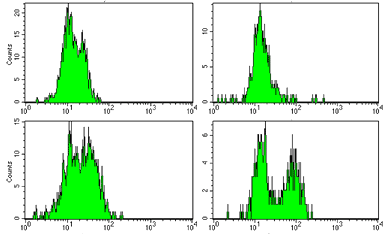
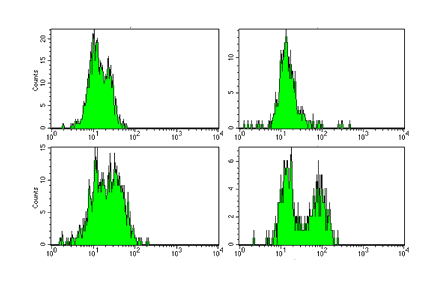
Whole-Cell Analysis: a question at the end of each section
The deck ended with a divider and one slide holding four questions, all
their answers in a single note.  Each question now closes the section
whose tools answer it, verbatim, carrying its own line of that note:
the temperature-sensitive GFP variant after the fluorescent reporter
assays, the MRSA killers and the clinical-utility follow-up after the
microbiological assays, and the 30-minute GFP pulse after experimental
design.  Only one word changed: "for the system in 2" became "for that
system", since the numbering is gone.

Section 05 is deleted with its cartoon.  It was a divider for a section
of one slide, and the cartoon was an opaque white box on the amber
ground.

That turned out to be true of every divider image, which is the trap
AUTHORING.txt records for a source image on a coloured ground.  The
three that remain now carry an even white border, so they read as
mounted plates rather than tight crops.

Biochemical Assays still has no closing question; none of the source's
four is biochemical.

Changed region(s): [[0.0, 0.0, 0.9974, 0.9872], [0.0, 0.688, 0.0312, 0.7778]]

diff --git a/docs/lectures/140L/08-whole-cell/04-experimental.html b/docs/lectures/140L/08-whole-cell/04-experimental.html
@@ -24,6 +24,7 @@
 .slide .chart text{fill:var(--ink)}
 .slide .chart .tick{font-size:22px}
 .slide .chart .atitle{font-size:24px}
+.slide.ask p.q{font-size:36px;font-weight:700;line-height:1.35;margin:30px 0 0;max-width:44ch}
 </style>
 </head>
 <body>
@@ -283,6 +284,16 @@
   <p class="src">iGEM:  Peking, 2007</p>
   <template class="notes">Another measured property of a strain is population heterogeneity.  Here, one cell in the population does something different than other cells. Sometimes this is an intentional property.  For example, this variant of the toggle switch from the Peking iGEM team in 2007 is designed to cause population heterogeneity.  Thus, they need to look at individual cells in the population and measure two different channels of fluorescence. However, often population heterogeneity is an unwanted and challenging-to-measure property of a strain.  For example, you might have a biosynthetic pathway in a cell in which only 10% of the population is producing the genes needed for biosynthesis.  With bulk measurements, it is impossible to know that such heterogeneity exists, but it is challenging to decipher this quality of your design directly. If the heterogeneity is due to genetic mutation, this can be pulled out from single-cell sequencing. There are efforts to develop other single-cell assays in the works, but as of 2014, sequencing and fluorescence are the only off-the-shelf way to ask questions about population heterogeneity.</template>
   <template class="desc">Population heterogeneity, or phase variation. A toggle-switch circuit from the Peking 2007 iGEM team, built from cI and cI434 with an EGFP reporter, above two fluorescence images of colonies: a field of mostly green colonies with a few red, and a close-up of one colony red at its centre and green around it.</template>
+</article>
+
+<!-- ------------------------------------------- 40c (moved here, 18 Oct 2026) -->
+<!-- Source 40's fourth question: a pulse followed over time is the
+     Dynamics idea this section introduces.  Question and answer VERBATIM. -->
+<article class="slide ask" data-bg="section">
+  <h1>Question to ponder</h1>
+  <p class="q">I have engineered a genetic circuit that produces a pulse of GFP activity after IPTG induction. It lasts for 30 minutes and then shuts off.  How can I quantify this phenotype?</p>
+  <template class="notes">This requires following cells over time, so you will need a fluorescence microscope.</template>
+  <template class="desc">Question to ponder, on the amber ground: I have engineered a genetic circuit that produces a pulse of GFP activity after IPTG induction, lasting 30 minutes and then shutting off. How can I quantify this phenotype?</template>
 </article>
 
 <script src="../../deck.js" defer></script>

diff --git a/docs/lectures/140L/08-whole-cell/01-fluorescent.html b/docs/lectures/140L/08-whole-cell/01-fluorescent.html
@@ -41,6 +41,7 @@
 .slide table.od{margin:16px auto 0;border-collapse:collapse;width:1200px}
 .slide table.od td{font-size:30px;padding:2px 0}
 .slide table.od td+td{text-align:center;width:33%}
+.slide.ask p.q{font-size:36px;font-weight:700;line-height:1.35;margin:30px 0 0;max-width:44ch}
 </style>
 </head>
 <body>
@@ -287,6 +288,20 @@ Scattering is a related phenomenon in which light bounces off a particle at a di
   </table>
   <template class="notes">Consider I have these two samples containing the same bacteria.  The only difference is that the cells on the left are twice as concentrated as those on the right.  Fluorescence measurements are linearly related to concentration, thus the sample on the left will give twice the signal as those on the right.  If you take those numbers at face value, you would incorrectly conclude that the cells on the left are more fluorescent than those on the right.</template>
   <template class="desc">Two fields of the same fluorescent bacteria, the left twice as concentrated as the right. Beneath them, fluorescence reads 0.86 on the left and 0.42 on the right.</template>
+</article>
+
+<!-- ------------------------------------------- 40a (moved here, 18 Oct 2026) -->
+<!-- Source slide 40 asked four questions on one slide at the very end of
+     the deck, with all four answers in one note.  JCA: go through them
+     individually, and reinforce at the end of each section instead.  So
+     each question now closes the section whose tools answer it, in the
+     pattern section 00 already used.  Question and answer are VERBATIM;
+     the answer is the matching line of source 40's note. -->
+<article class="slide ask" data-bg="section">
+  <h1>Question to ponder</h1>
+  <p class="q">I am trying to engineer a temperature-sensitive GFP variant.  Experimentally, how do I quantify this effect in live cells?</p>
+  <template class="notes">Put the GFP variants under a constitutive promoter on a plasmid, transform the cells, grow them at different temperatures, measure the fluorescence using a fluorimeter (Tecan), cytometry, or fluorescence microscopy</template>
+  <template class="desc">Question to ponder, on the amber ground: I am trying to engineer a temperature-sensitive GFP variant. Experimentally, how do I quantify this effect in live cells?</template>
 </article>
 
 <script src="../../deck.js" defer></script>

diff --git a/docs/lectures/140L/08-whole-cell/03-microbiological.html b/docs/lectures/140L/08-whole-cell/03-microbiological.html
@@ -18,6 +18,7 @@
 /* frames of one drawing stacked in a single cell, so a click swaps them */
 .slide .frames{display:grid;min-height:0}
 .slide .frames > img{grid-area:1 / 1}
+.slide.ask p.q{font-size:36px;font-weight:700;line-height:1.35;margin:30px 0 0;max-width:44ch}
 </style>
 </head>
 <body>
@@ -266,6 +267,21 @@
   </div>
   <template class="notes">Another microbiological behavior is adhesion.  Bacteria often stick to surfaces including the surfaces of other cells like human gut epithelial cells  Though it is not synonymous with biofilm formation, it is a highly related phenomenon.  One way to quantify it involves microplate-based adhesion assays.  In this example, we are monitoring the adhesion of bacteria to mannan, a carbohydrate resembling the surfaces of mammalian epithelial cells, via type I pili.</template>
   <template class="desc">A scanning electron micrograph of bacteria attached by pili to a cell surface.</template>
+</article>
+
+<!-- ------------------------------------------- 40b (moved here, 18 Oct 2026) -->
+<!-- Source 40's second and third questions.  They stay together because
+     the third depends on the second; it read "For the system in 2", and
+     with the numbering gone it now reads "For that system", the only
+     change.  Both answers are VERBATIM from source 40's note. -->
+<article class="slide ask" data-bg="section">
+  <h1>Question to ponder</h1>
+  <p class="q">I am trying to engineer bacteria that kill MRSA.  How would I quantify the effect?</p>
+  <p class="q" data-build="1"
+     data-note="Apply the engineered bacteria to a wound infected with MRSA, measure recovery time"
+     data-desc="A second question appears: for that system, how would I demonstrate the clinical utility?">For that system, how would I demonstrate the clinical utility?</p>
+  <template class="notes">Mix the engineered bacteria vs unengineered with MRSA.  After incubation, plate on media that only the MRSA are resistant to.  Count colonies.</template>
+  <template class="desc">Question to ponder, on the amber ground: I am trying to engineer bacteria that kill MRSA. How would I quantify the effect?</template>
 </article>
 
 <script src="../../deck.js" defer></script>

diff --git a/docs/lectures/140L/08-whole-cell/lecture.js b/docs/lectures/140L/08-whole-cell/lecture.js
@@ -25,6 +25,13 @@
    grading, project ideas and wetlab result slides, source slides 41 to 68 —
    is NOT converted and stays in PowerPoint.
 
+   SOURCE 39 AND 40 ARE GONE from the section list.  They were a divider
+   and one slide holding four questions, at the very end.  JCA, 18 Oct
+   2026: go through them individually, and reinforce at the end of each
+   section rather than dumping them at the end.  Each question now closes
+   the section whose tools answer it, verbatim, in the pattern section 00
+   already used.  Source 39's cartoon is deleted.
+
    kind: lecture | section — only used to colour the jump menu key. */
 window.LECTURE = {
   title: "Whole-Cell Analysis",
@@ -34,7 +41,6 @@ window.LECTURE = {
     { file: "01-fluorescent.html", title: "Fluorescent Reporter Assays", kind: "section" },
     { file: "02-biochemical.html", title: "Biochemical Assays", kind: "section" },
     { file: "03-microbiological.html", title: "Microbiological Assays", kind: "section" },
-    { file: "04-experimental.html", title: "Experimental Design", kind: "section" },
-    { file: "05-questions.html", title: "Questions to Ponder", kind: "section" }
+    { file: "04-experimental.html", title: "Experimental Design", kind: "section" }
   ]
 };
